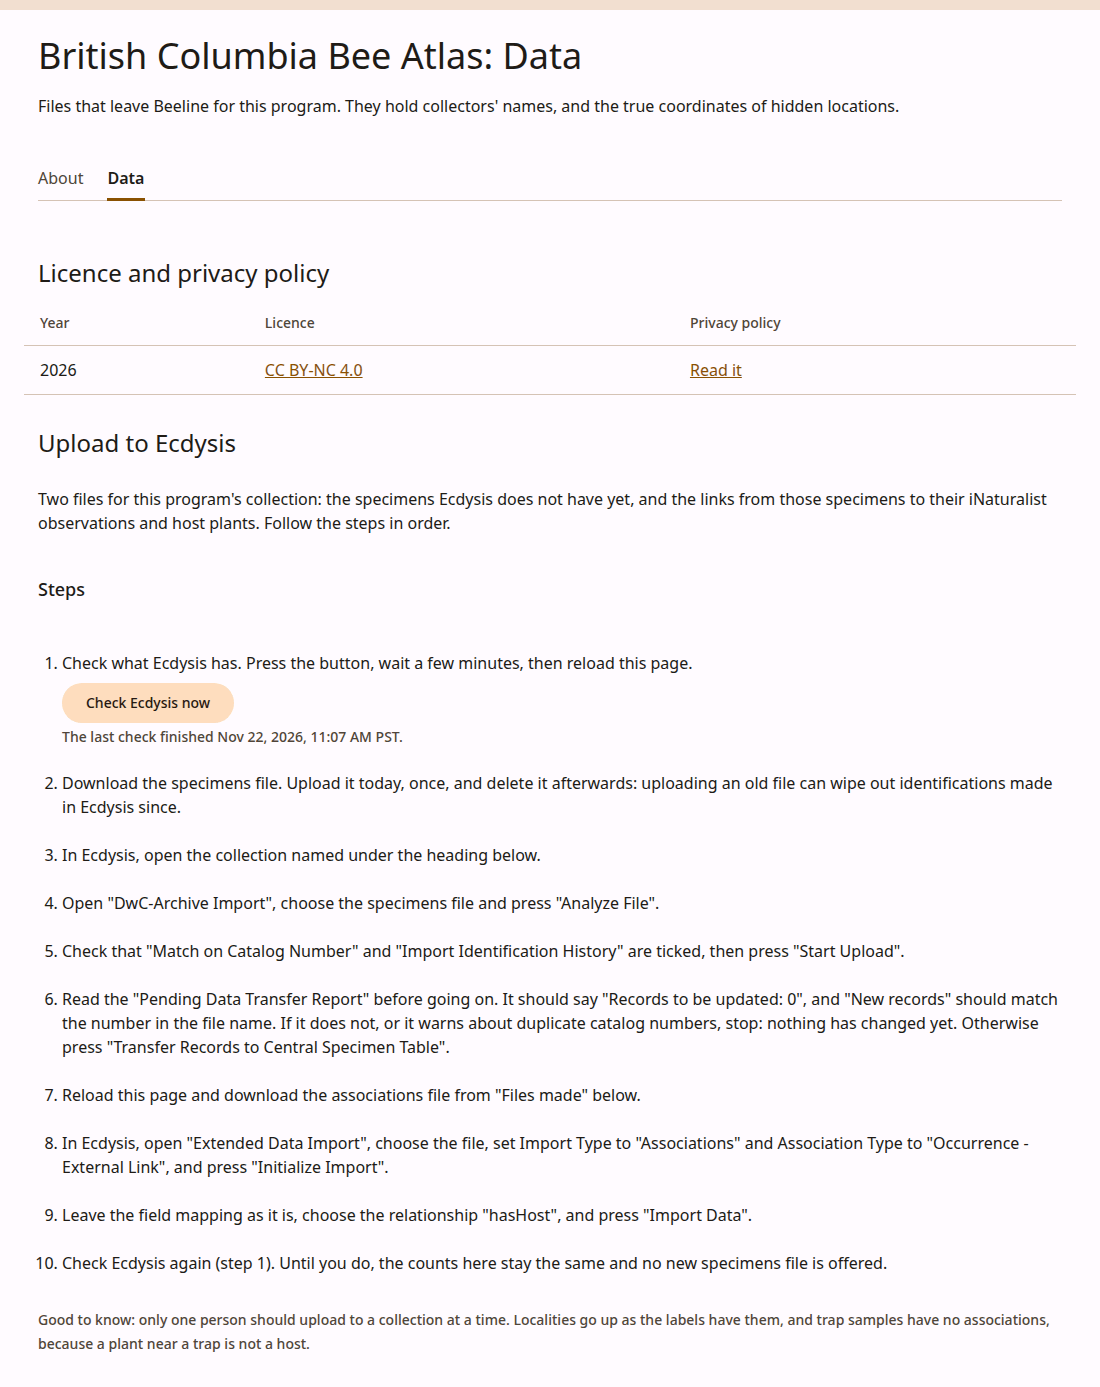
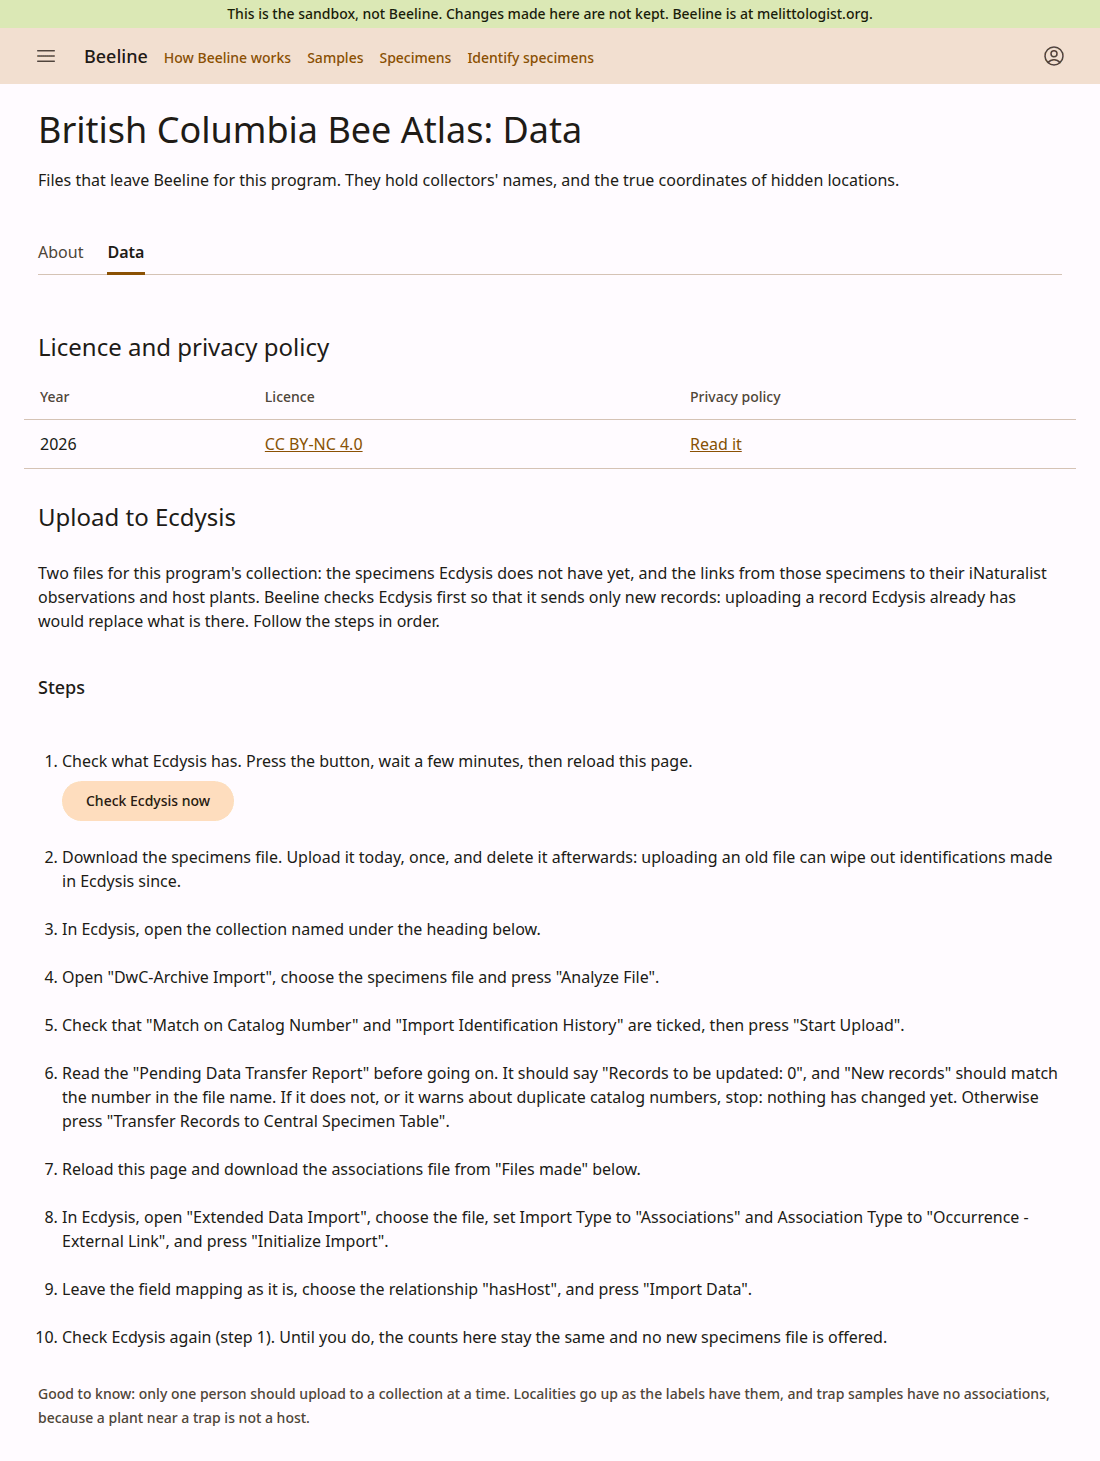
Say why the upload to Ecdysis starts with a check (beeline-q8di)
The overview of Upload to Ecdysis now explains that Beeline checks Ecdysis
first so that it sends only new records, because uploading a record Ecdysis
already has would replace what is there.

diff --git a/src/app/messages/en.ts b/src/app/messages/en.ts
@@ -2885,7 +2885,7 @@ export const en = {
     ecdysis: {
       heading: "Upload to Ecdysis",
       intro:
-        "Two files for this program's collection: the specimens Ecdysis does not have yet, and the links from those specimens to their iNaturalist observations and host plants. Follow the steps in order.",
+        "Two files for this program's collection: the specimens Ecdysis does not have yet, and the links from those specimens to their iNaturalist observations and host plants. Beeline checks Ecdysis first so that it sends only new records: uploading a record Ecdysis already has would replace what is there. Follow the steps in order.",
       instructionsHeading: "Steps",
       readNowButton: "Check Ecdysis now",
       steps: {
